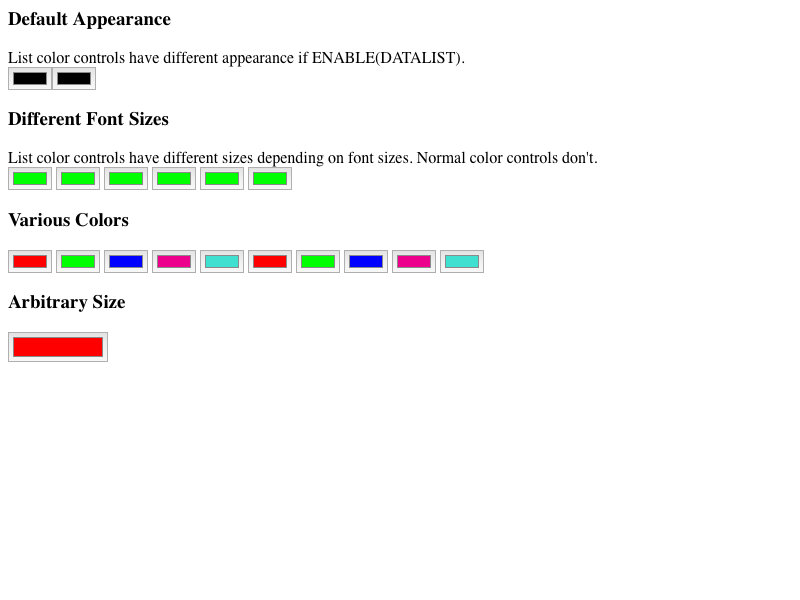
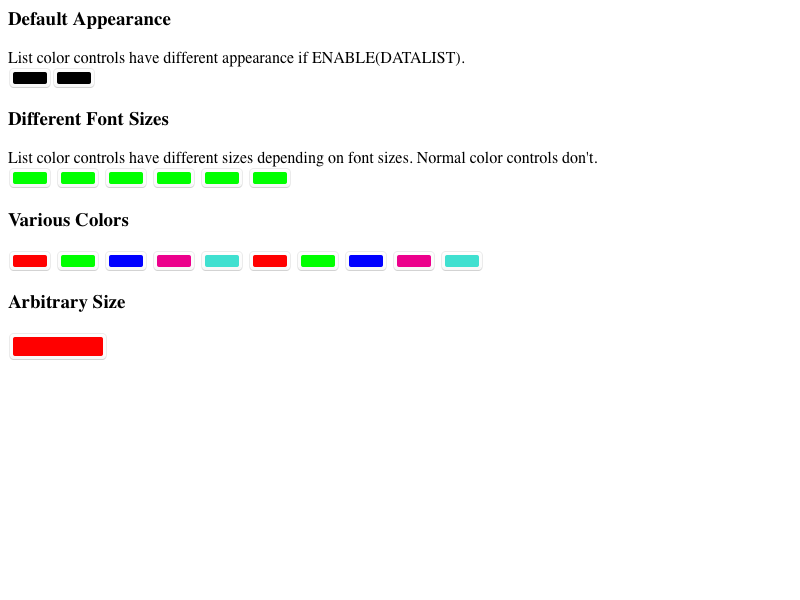
[macOS] Color wells should appear rounded and textured https://bugs.webkit.org/show_bug.cgi?id=189039
Reviewed by Tim Horton.

Source/WebCore:

Color wells should have a rounded and textured appearance on macOS. We can use
NSBezelStyleTexturedSquare to achieve this appearance.

Also updated the user-agent stylesheet to match the system appearance.

Rebaselined existing test: fast/forms/color/input-appearance-color.html

* css/html.css:
(input[type="color"]::-webkit-color-swatch-wrapper):
(input[type="color"]::-webkit-color-swatch):
* platform/mac/ThemeMac.mm:
(WebCore::setUpButtonCell):
* rendering/RenderThemeMac.h: Build fix.

Source/WebKit:

* UIProcess/mac/WebColorPickerMac.mm: Build fix.

LayoutTests:

Rebaseline tests to match new color-well appearance.

* platform/mac/fast/forms/color/input-appearance-color-expected.png:
* platform/mac/fast/forms/color/input-appearance-color-expected.txt:

git-svn-id: https://svn.webkit.org/repository/webkit/trunk@235435 268f45cc-cd09-0410-ab3c-d52691b4dbfc

diff --git a/Source/WebCore/css/html.css b/Source/WebCore/css/html.css
@@ -896,7 +896,7 @@ input[type="color"] {
 
 input[type="color"]::-webkit-color-swatch-wrapper {
     display: flex;
-    padding: 4px 2px;
+    padding: 4px 2px 5px;
     box-sizing: border-box;
     width: 100%;
     height: 100%;
@@ -904,7 +904,7 @@ input[type="color"]::-webkit-color-swatch-wrapper {
 
 input[type="color"]::-webkit-color-swatch {
     background-color: #000000;
-    border: 1px solid #8A8A8A;
+    border-radius: 2px;
     flex: 1;
 }
 

diff --git a/Source/WebCore/platform/mac/ThemeMac.mm b/Source/WebCore/platform/mac/ThemeMac.mm
@@ -496,16 +496,20 @@ static void setUpButtonCell(NSButtonCell *cell, ControlPart part, const ControlS
 {
     // Set the control size based off the rectangle we're painting into.
     const std::array<IntSize, 3>& sizes = buttonSizes();
-    if (part == SquareButtonPart
+    switch (part) {
+    case SquareButtonPart:
+        [cell setBezelStyle:NSBezelStyleShadowlessSquare];
+        break;
 #if ENABLE(INPUT_TYPE_COLOR)
-        || part == ColorWellPart
+    case ColorWellPart:
+        [cell setBezelStyle:NSBezelStyleTexturedSquare];
+        break;
 #endif
-        || zoomedSize.height() > buttonSizes()[NSControlSizeRegular].height() * zoomFactor) {
-        // Use the square button
-        if ([cell bezelStyle] != NSBezelStyleShadowlessSquare)
-            [cell setBezelStyle:NSBezelStyleShadowlessSquare];
-    } else if ([cell bezelStyle] != NSBezelStyleRounded)
-        [cell setBezelStyle:NSBezelStyleRounded];
+    default:
+        NSBezelStyle style = (zoomedSize.height() > buttonSizes()[NSControlSizeRegular].height() * zoomFactor) ? NSBezelStyleShadowlessSquare : NSBezelStyleRounded;
+        [cell setBezelStyle:style];
+        break;
+    }
 
     setControlSize(cell, sizes, zoomedSize, zoomFactor);
 

diff --git a/Source/WebKit/UIProcess/mac/WebColorPickerMac.mm b/Source/WebKit/UIProcess/mac/WebColorPickerMac.mm
@@ -63,7 +63,7 @@ static const CGFloat colorPickerMatrixBorderWidth = 1.0;
 @interface WKColorPopoverMac : NSObject<WKColorPickerUIMac, WKPopoverColorWellDelegate, NSWindowDelegate> {
 @private
     BOOL _lastChangedByUser;
-    WebColorPickerMac *_picker;
+    WebKit::WebColorPickerMac *_picker;
     RetainPtr<WKPopoverColorWell> _popoverWell;
 }
 - (id)initWithFrame:(const WebCore::IntRect &)rect inView:(NSView *)view;

diff --git a/Source/WebCore/rendering/RenderThemeMac.h b/Source/WebCore/rendering/RenderThemeMac.h
@@ -157,7 +157,7 @@ private:
 
 #if ENABLE(DATALIST_ELEMENT)
     void paintListButtonForInput(const RenderObject&, GraphicsContext&, const FloatRect&);
-    void adjustListButtonStyle(StyleResolver&, RenderStyle&, const Element*) const;
+    void adjustListButtonStyle(StyleResolver&, RenderStyle&, const Element*) const final;
 #endif
 
 #if ENABLE(VIDEO)
